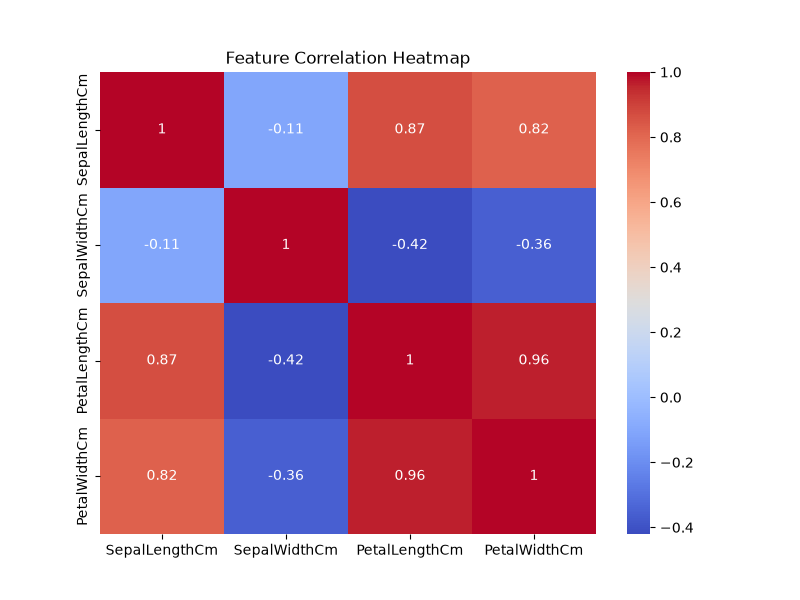
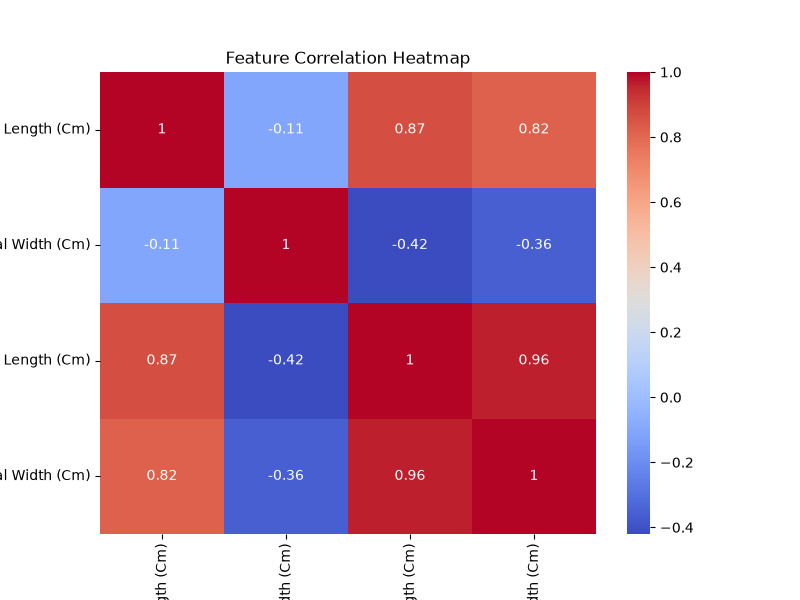
Update Streamlit UI and improve prediction module

diff --git a/Iris_Flower_Classification/app.py b/Iris_Flower_Classification/app.py
@@ -19,7 +19,16 @@ st.set_page_config(
 
 model = joblib.load("models/iris_model.pkl")
 
-iris_df = pd.read_csv("data/Iris.csv")
[email redacted]_data
+def load_data():
+    df = pd.read_csv("data/Iris.csv")
+
+    if "Id" in df.columns:
+        df.drop("Id", axis=1, inplace=True)
+
+    return df
+
+iris_df = load_data()
 
 if "Id" in iris_df.columns:
     iris_df.drop("Id", axis=1, inplace=True)
@@ -146,15 +155,14 @@ if predict_btn:
             petal_width
         ]],
         columns=[
-            "SepalLengthCm",
-            "SepalWidthCm",
-            "PetalLengthCm",
-            "PetalWidthCm"
+            "Sepal Length (Cm)",
+            "Sepal Width (Cm)",
+            "Petal Length (Cm)",
+            "Petal Width (Cm)"
         ]
     )
 
     prediction = model.predict(sample)[0]
-
     probabilities = model.predict_proba(sample)[0]
 
     col1, col2 = st.columns([1, 1.3])
@@ -215,10 +223,10 @@ if predict_btn:
 
         chart_df = pd.DataFrame({
             "Feature": [
-                "Sepal Length",
-                "Sepal Width",
-                "Petal Length",
-                "Petal Width"
+                "Sepal Length (Cm)",
+                "Sepal Width (Cm)",
+                "Petal Length (Cm)",
+                "Petal Width (Cm)"
             ],
             "Value": [
                 sepal_length,

diff --git a/Iris_Flower_Classification/src/predict.py b/Iris_Flower_Classification/src/predict.py
@@ -17,10 +17,10 @@ def predict_flower(
             petal_width
         ]],
         columns=[
-            "SepalLengthCm",
-            "SepalWidthCm",
-            "PetalLengthCm",
-            "PetalWidthCm"
+            "Sepal Length (Cm)",
+            "Sepal Width (Cm)",
+            "Petal Length (Cm)",
+            "Petal Width (Cm)"
         ]
     )
 

diff --git a/Iris_Flower_Classification/README.md b/Iris_Flower_Classification/README.md
@@ -1,41 +1,212 @@
-# OIBSIP
-This is an AICTE Oasis Infobyte Data Science Internship
+# 🌸 Iris Flower Classification
 
-# Iris Flower Classification
+<div align="center">
 
-## Objective
+![Python](https://img.shields.io/badge/Python-3.x-blue?logo=python)
+![Machine Learning](https://img.shields.io/badge/Machine-Learning-green)
+![Streamlit](https://img.shields.io/badge/Streamlit-Web%20App-red?logo=streamlit)
+![Scikit-Learn](https://img.shields.io/badge/Scikit--Learn-Random%20Forest-orange?logo=scikitlearn)
+![Status](https://img.shields.io/badge/Project-Completed-brightgreen)
 
-Build a Machine Learning model to classify Iris flowers into:
+### AICTE Oasis Infobyte Data Science Internship (OIBSIP)
+
+</div>
+
+---
+
+# 📌 Project Overview
+
+The **Iris Flower Classification** project is a Machine Learning application that predicts the species of an Iris flower based on its measurements.
+
+The model classifies flowers into three categories:
+
+- 🌼 Iris-setosa
+- 🌷 Iris-versicolor
+- 🌹 Iris-virginica
+
+using **Sepal Length, Sepal Width, Petal Length, and Petal Width**.
+
+---
+
+# 🎯 Objective
+
+Develop a Machine Learning model capable of accurately classifying Iris flowers and provide an interactive web interface for real-time prediction.
+
+---
+
+# ✨ Features
+
+✅ Interactive Streamlit Web Application
+
+✅ Real-time Flower Species Prediction
+
+✅ Prediction Confidence Table
+
+✅ Top 10 Similar Matching Records
+
+✅ Species Information Display
+
+✅ Correlation Matrix
+
+✅ Confusion Matrix
+
+✅ Classification Report
+
+✅ Feature Visualization
+
+---
+
+# 🛠 Technologies Used
+
+| Technology | Purpose |
+|------------|------------------------------|
+| Python | Programming Language |
+| Pandas | Data Processing |
+| NumPy | Numerical Computation |
+| Scikit-Learn | Machine Learning |
+| Matplotlib | Data Visualization |
+| Seaborn | Statistical Visualization |
+| Streamlit | Web Application |
+| Joblib | Model Serialization |
+
+---
+
+# 📂 Dataset
+
+**Dataset:** Iris Flower Dataset
+
+**Features**
+
+- Sepal Length (Cm)
+- Sepal Width (Cm)
+- Petal Length (Cm)
+- Petal Width (Cm)
+
+**Target**
 
 - Iris-setosa
 - Iris-versicolor
 - Iris-virginica
 
-using flower measurements.
+---
 
-## Technologies Used
+# 🤖 Machine Learning Model
 
-- Python
-- Pandas
-- NumPy
-- Scikit-Learn
-- Matplotlib
-- Seaborn
+**Algorithm Used**
 
-## Dataset
+✔ Random Forest Classifier
 
-Iris Dataset from Kaggle.
+The model is trained using the Iris dataset and saved as:
 
-## Model Used
+```
+models/iris_model.pkl
+```
 
-Random Forest Classifier
+---
 
-## Accuracy
+# 📊 Model Performance
 
-Around 95% to 100%
+| Metric | Result |
+|------------|------------|
+| Accuracy | 100% |
+| Classification Report | ✔ |
+| Confusion Matrix | ✔ |
+| Correlation Matrix | ✔ |
 
-## How to Run
+---
 
+# 📁 Project Structure
+
+```
+IRIS_FLOWER_CLASSIFICATION
+│
+├── data/
+│   └── Iris.csv
+│
+├── models/
+│   └── iris_model.pkl
+│
+├── outputs/
+│   ├── confusion_matrix.png
+│   ├── heatmap.png
+│   ├── pairplot.png
+│   └── species_distribution.png
+│
+├── src/
+│   ├── predict.py
+│   ├── train.py
+│   ├── utils.py
+│   └── visualization.py
+│
+├── app.py
+├── main.py
+├── requirements.txt
+└── README.md
+```
+
+---
+
+# 🚀 Installation
+
+Clone the repository
+
+```bash
+git clone https://github.com/ARPAN-2003/OIBSIP.git
+```
+
+Navigate to the project folder
+
+```bash
+cd OIBSIP/IRIS_FLOWER_CLASSIFICATION
+```
+
+Install dependencies
+
+```bash
 pip install -r requirements.txt
+```
 
+---
+
+# ▶️ Run the Project
+
+### Train the Model
+
+```bash
 python main.py
+```
+
+### Launch Streamlit Application
+
+```bash
+streamlit run app.py
+```
+
+---
+
+# 📷 Application Features
+
+- 🌸 Predict Iris Flower Species
+- 📊 Prediction Confidence
+- 📈 Feature Overview
+- 📏 Selected Measurements
+- 🔍 Top 10 Similar Records
+- ℹ Species Information
+
+---
+
+# 🎓 Internship
+
+This project was developed as part of the
+
+**AICTE Oasis Infobyte Data Science Internship Program (OIBSIP).**
+
+---
+
+<div align="center">
+
+### ⭐ If you like this project, consider giving it a Star!
+
+Made with ❤️ by **Arpan Mitra**
+
+</div>